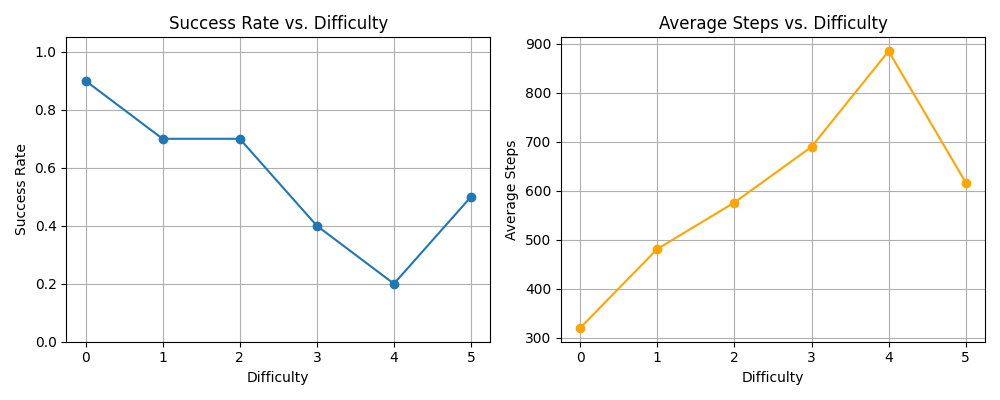
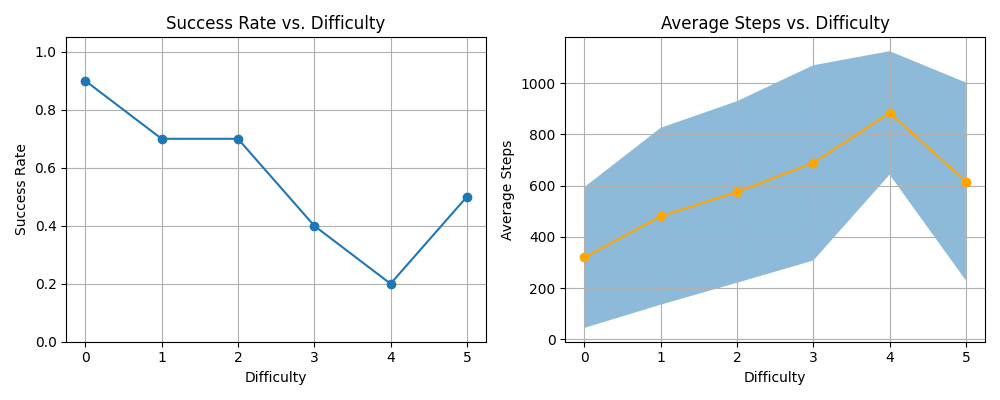
Changed the Plots of Results

diff --git a/evaluate_trained_dqn_niek.py b/evaluate_trained_dqn_niek.py
@@ -39,6 +39,7 @@ def run_episode(env, agent, name_exp, delivery_zones=None, max_steps=1000):
 def experiment_stochasticity(agent, levels=(0.0, 0.1, 0.3, 0.5)):
     success_rates = []
     avg_steps = []
+    std_steps = []
     for sigma in levels:
         successes = 0
         steps_record = []
@@ -50,7 +51,9 @@ def experiment_stochasticity(agent, levels=(0.0, 0.1, 0.3, 0.5)):
             steps_record.append(steps)
         success_rates.append(successes / 10)
         avg_steps.append(np.mean(steps_record))
-    plot_results(levels, success_rates, avg_steps, "Stochasticity", "stochasticity_plot.png")
+        std_steps.append(np.std(steps_record))
+
+    plot_results(levels, np.array(success_rates), np.array(avg_steps), np.array(std_steps), "Stochasticity", "stochasticity_plot.png")
     append_to_txt("Stochasticity", levels, success_rates, avg_steps)
 
 
@@ -59,6 +62,8 @@ def experiment_difficulty(agent):
     levels = [0, 1, 2, 3, 4, 5]
     success_rates = []
     avg_steps = []
+    std_steps = []
+
     for i in levels:
         # Generate i boxes as extra obstacles to simulate increasing difficulty
         extra_obstacles = [(15 + 0.2 * j, 4 + 0.2 * j, 15.3 + 0.2 * j, 4.3 + 0.2 * j) for j in range(i)]
@@ -73,7 +78,9 @@ def experiment_difficulty(agent):
             steps_record.append(steps)
         success_rates.append(successes / 10)
         avg_steps.append(np.mean(steps_record))
-    plot_results(levels, success_rates, avg_steps, "Difficulty", "difficulty_plot.png")
+        std_steps.append(np.std(steps_record))
+
+    plot_results(levels, np.array(success_rates), np.array(avg_steps), np.array(std_steps), "Difficulty", "difficulty_plot.png")
     append_to_txt("Difficulty", levels, success_rates, avg_steps)
 
 
@@ -82,6 +89,8 @@ def experiment_target_distance(agent):
     levels = [0, 1, 2]
     success_rates = []
     avg_steps = []
+    std_steps = []
+
     for i in levels:
         '''
         margin = 10 + i * 0.5
@@ -93,7 +102,6 @@ def experiment_target_distance(agent):
         env = Environment()
         zones = create_delivery_zones(env.racks, env.width, env.height, margin=0.5 + i * 0.1)
         delivery_zones = random.sample(zones, 3)
-        print(f"level {i}: {delivery_zones}")
         successes = 0
         steps_record = []
         for _ in range(10):
@@ -105,11 +113,13 @@ def experiment_target_distance(agent):
             steps_record.append(steps)
         success_rates.append(successes / 10)
         avg_steps.append(np.mean(steps_record))
-    plot_results(levels, success_rates, avg_steps, "TargetDistance", "target_distance_plot.png")
+        std_steps.append(np.std(steps_record))
+
+    plot_results(levels, np.array(success_rates), np.array(avg_steps), np.array(std_steps), "TargetDistance", "target_distance_plot.png")
     append_to_txt("TargetDistance", levels, success_rates, avg_steps)
 
 
-def plot_results(x_values, success_rates, avg_steps, xlabel, filename):
+def plot_results(x_values, success_rates, avg_steps, std_steps, xlabel, filename):
     plt.figure(figsize=(10, 4))
 
     plt.subplot(1, 2, 1)
@@ -122,6 +132,7 @@ def plot_results(x_values, success_rates, avg_steps, xlabel, filename):
 
     plt.subplot(1, 2, 2)
     plt.plot(x_values, avg_steps, marker="o", color="orange")
+    plt.fill_between(x_values, avg_steps - std_steps, avg_steps + std_steps, alpha=0.5)
     plt.title(f"Average Steps vs. {xlabel}")
     plt.xlabel(xlabel)
     plt.ylabel("Average Steps")
@@ -143,9 +154,9 @@ def append_to_txt(title, x, success_rates, steps):
 def evaluate(model_path: Path):
     agent = DQNAgent.load(str(model_path), state_size=15, action_size=6)
     agent.epsilon = 0.0
-    #experiment_stochasticity(agent)
+    experiment_stochasticity(agent)
     print("Experiment Stochasticity Finished!")
-    #experiment_difficulty(agent)
+    experiment_difficulty(agent)
     print("Experiment Difficulty Finished!")
     experiment_target_distance(agent)
     print("Experiment Target Distance Finished!")
